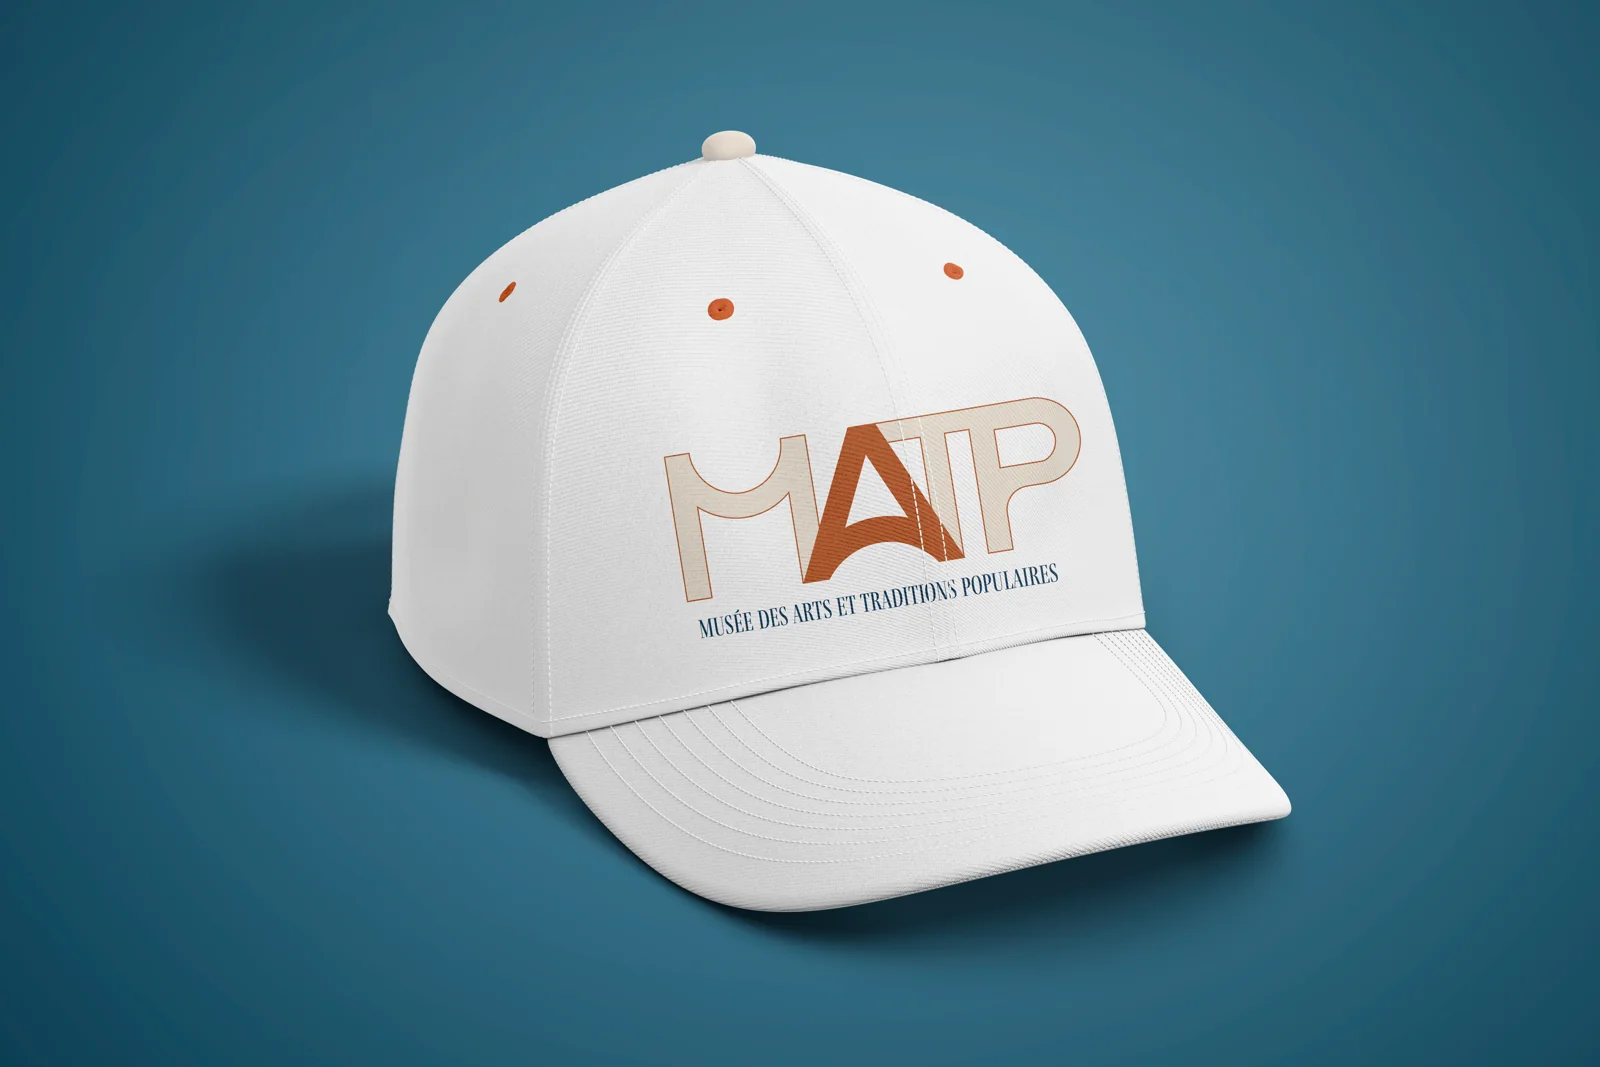
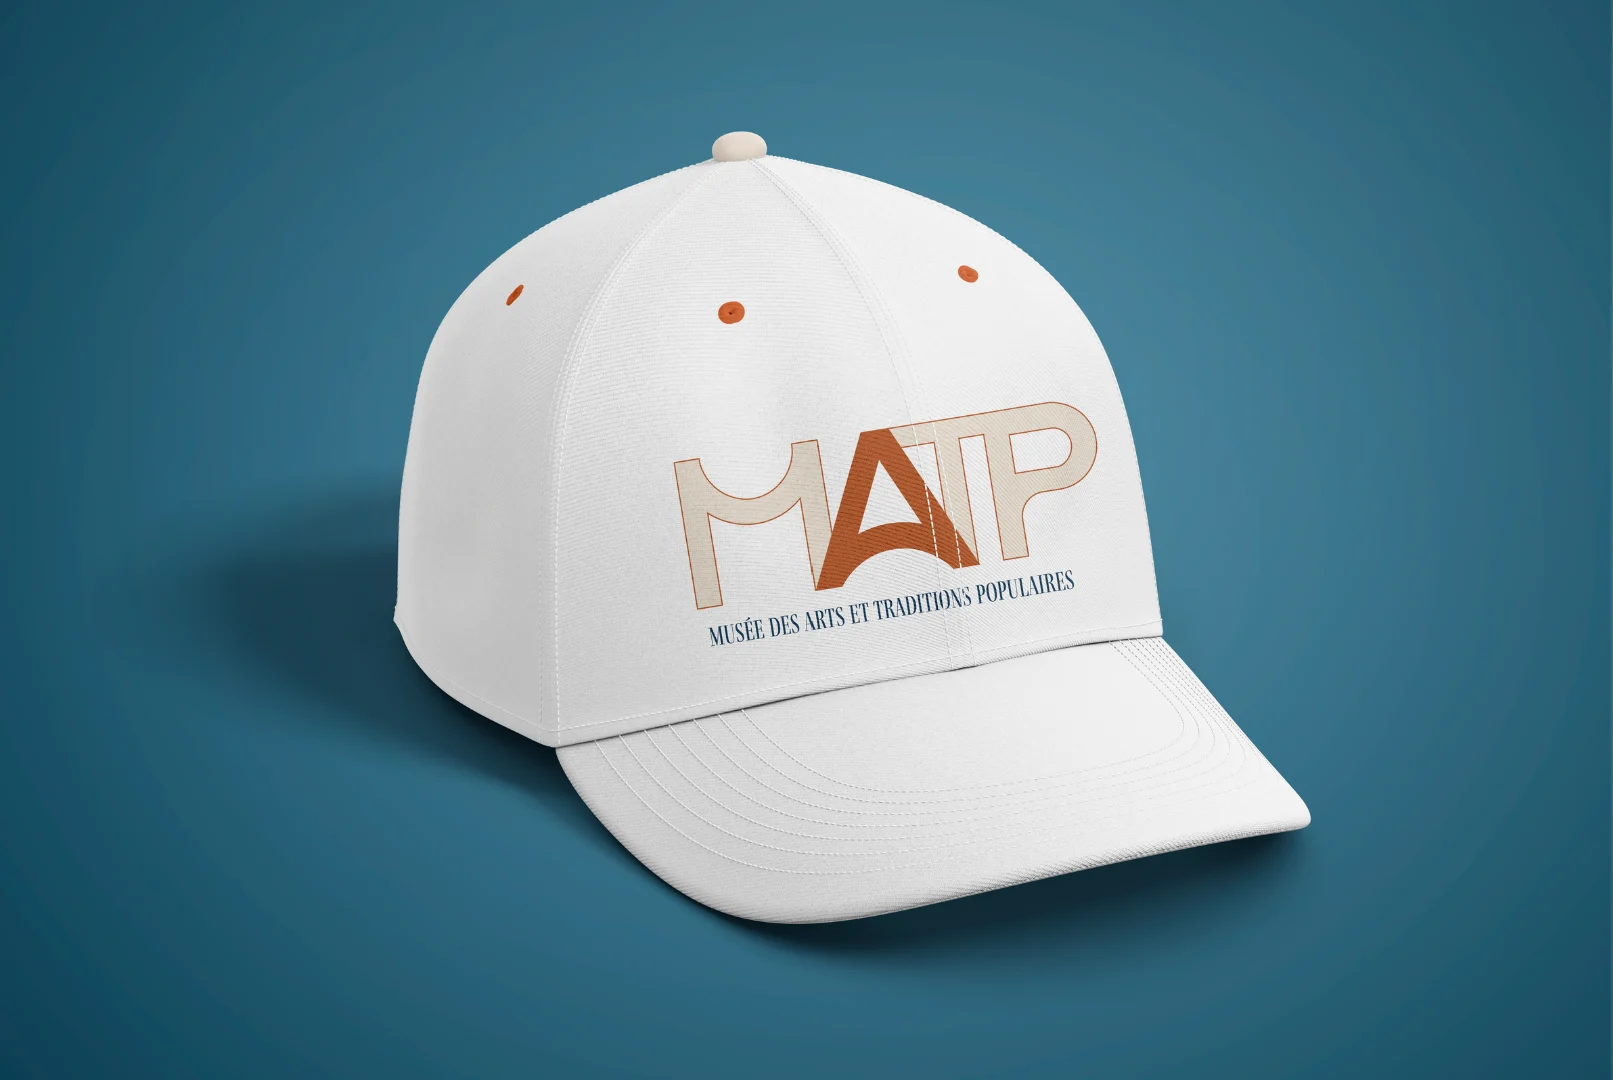
Labo : casquette MATP en HD, en carte sur l'accueil
Claude-Session: https://claude.ai/code/session_01PCZtoaRiJKjqgaF7xpctFD

diff --git a/index.html b/index.html
@@ -133,7 +133,7 @@
     <div class="tete-labo"><h2>Labo</h2><p>Mes projets d'école et mes projets perso : identités visuelles, stratégies, social ads, un site, un podcast… et des logos pour mes proches.</p></div>
     <ul class="rail" id="rail">
       <li><a href="labo.html#ikea"><span class="v"><img src="assets/img/labo/ikea/carrousel-1.webp" alt="" loading="lazy"></span><b>IKEA, version psychédélique</b><small>Identité visuelle</small></a></li>
-      <li><a href="labo.html#matp"><span class="v"><img src="assets/img/labo/matp/story.webp" alt="" loading="lazy" style="object-position:50% 20%"></span><b>Musée des Arts et Traditions</b><small>Identité visuelle</small></a></li>
+      <li><a href="labo.html#matp"><span class="v"><img src="assets/img/labo/matp/casquette.webp" alt="" loading="lazy" style="object-position:58% 50%"></span><b>Musée des Arts et Traditions</b><small>Identité visuelle</small></a></li>
       <li><a href="labo.html#kinetic"><span class="v"><img src="assets/img/labo/kinetic/mockups.webp" alt="" loading="lazy"></span><b>Kinetic</b><small>Branding &amp; stratégie</small></a></li>
       <li><a href="labo.html#hyros"><span class="v"><img src="assets/img/labo/hyros/voiture.webp" alt="" loading="lazy"></span><b>Hyros by Tesla</b><small>Lancement de produit</small></a></li>
       <li><a href="labo.html#pgw"><span class="v"><img src="assets/img/labo/pgw/carte.webp" alt="" loading="lazy"></span><b>Paris Games Week</b><small>Social ads</small></a></li>
